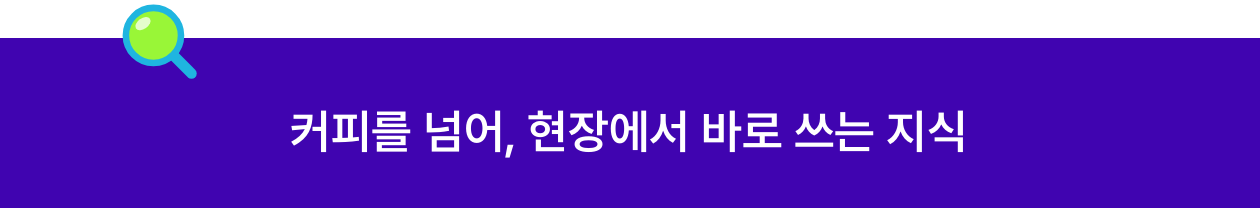
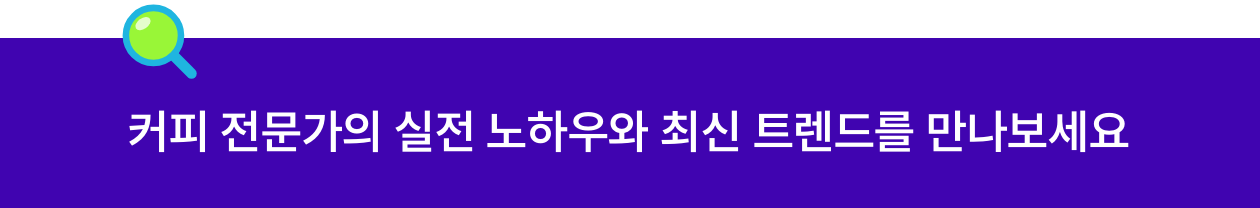
vol06: 더 세션즈 소제목 띠 문구 변경 — 커피 전문가의 실전 노하우와 최신 트렌드를 만나보세요
Claude-Session: https://claude.ai/code/session_0162FmzTmWg611yZswnnmrjC

Changed region(s): [[0.0929, 0.5192, 0.8976, 0.75]]

diff --git a/emails/vol06.html b/emails/vol06.html
@@ -13,7 +13,7 @@
 <tr><td style="padding:15px 15px 1px;font-family:AppleSDGothic, apple sd gothic neo, noto sans korean, noto sans korean regular, noto sans cjk kr, noto sans cjk, nanum gothic, malgun gothic, dotum, arial, helvetica, MS Gothic, sans-serif;color:#000000;word-break:keep-all;overflow-wrap:break-word;"><p style="margin:0 0 14px;text-align:center;font-size:16px;line-height:1.7;"><b>다음 주, 월드커피포럼이 시작됩니다!</b></p><p style="margin:0 0 14px;text-align:center;font-size:16px;line-height:1.7;">커피를 마시는 이유부터 커피 산업의 새로운 가능성까지.<br>다양한 이야기와 인사이트가 펼쳐질<br><span style="color:#4004b0;">제15회 월드커피포럼</span>이 여러분을 기다립니다. ☕</p><p style="margin:0 0 14px;text-align:center;font-size:16px;line-height:1.7;"><b>2026. 11. 11(수)–14(토) | 서울 코엑스</b></p></td></tr>
 <tr><td height="10" style="height:10px;font-size:0;">&nbsp;</td></tr>
 <tr><td style="padding:15px 15px 1px;font-family:AppleSDGothic, apple sd gothic neo, noto sans korean, noto sans korean regular, noto sans cjk kr, noto sans cjk, nanum gothic, malgun gothic, dotum, arial, helvetica, MS Gothic, sans-serif;color:#000000;word-break:keep-all;overflow-wrap:break-word;"><p style="margin:0 0 14px;text-align:center;font-size:16px;line-height:1.7;"><b>커피를 더 깊이 알아가는 시간</b><br><span style="color:#4004b0;">The Sessions &amp; SCA Education</span></p><p style="margin:0 0 14px;text-align:center;font-size:16px;line-height:1.7;">좋은 커피를 구별하는 기준은 무엇일까요?<br>오래 사랑받는 카페와 브랜드에는 어떤 비결이 있을까요?</p><p style="margin:0 0 14px;text-align:center;font-size:16px;line-height:1.7;">커피를 처음 배우는 입문자부터 카페 창업을 준비하는 분, 업계 전문가까지.<br>월커포에서 나에게 꼭 맞는 프로그램을 찾아보세요!</p></td></tr>
-<tr><td style="padding:0;font-family:AppleSDGothic, apple sd gothic neo, noto sans korean, noto sans korean regular, noto sans cjk kr, noto sans cjk, nanum gothic, malgun gothic, dotum, arial, helvetica, MS Gothic, sans-serif;color:#000000;word-break:keep-all;overflow-wrap:break-word;"><img src="https://jongabaek.github.io/wcf.newsletter/assets/vol06/band_sessions.png" width="630" alt="커피를 넘어, 현장에서 바로 쓰는 지식" style="display:block;width:100%;max-width:100%;height:auto;border:0;"></td></tr>
+<tr><td style="padding:0;font-family:AppleSDGothic, apple sd gothic neo, noto sans korean, noto sans korean regular, noto sans cjk kr, noto sans cjk, nanum gothic, malgun gothic, dotum, arial, helvetica, MS Gothic, sans-serif;color:#000000;word-break:keep-all;overflow-wrap:break-word;"><img src="https://jongabaek.github.io/wcf.newsletter/assets/vol06/band_sessions.png" width="630" alt="커피 전문가의 실전 노하우와 최신 트렌드를 만나보세요" style="display:block;width:100%;max-width:100%;height:auto;border:0;"></td></tr>
 <tr><td style="padding:0;font-family:AppleSDGothic, apple sd gothic neo, noto sans korean, noto sans korean regular, noto sans cjk kr, noto sans cjk, nanum gothic, malgun gothic, dotum, arial, helvetica, MS Gothic, sans-serif;color:#000000;word-break:keep-all;overflow-wrap:break-word;"><a href="https://booking.naver.com/booking/5/bizes/1235751" target="_blank"><img src="https://jongabaek.github.io/wcf.newsletter/assets/vol06/info_sessions.png" width="630" alt="더 세션즈 · 11. 11(수)–14(토) · 코엑스 컨퍼런스룸 301호 · 지금 사전등록하기" style="display:block;width:100%;max-width:100%;height:auto;border:0;"></a></td></tr>
 <tr><td style="padding:15px 15px 1px;font-family:AppleSDGothic, apple sd gothic neo, noto sans korean, noto sans korean regular, noto sans cjk kr, noto sans cjk, nanum gothic, malgun gothic, dotum, arial, helvetica, MS Gothic, sans-serif;color:#000000;word-break:keep-all;overflow-wrap:break-word;"><p style="margin:0 0 14px;text-align:center;font-size:16px;line-height:1.7;">커피의 품질과 브루잉 기술, 카페 창업과 브랜드 운영까지.<br>현장 전문가들의 생생한 경험과 노하우를 만나볼 수 있습니다.<br>듣고 싶은 세션만 골라 들어보세요! 💡</p></td></tr>
 <tr><td style="padding:0;font-family:AppleSDGothic, apple sd gothic neo, noto sans korean, noto sans korean regular, noto sans cjk kr, noto sans cjk, nanum gothic, malgun gothic, dotum, arial, helvetica, MS Gothic, sans-serif;color:#000000;word-break:keep-all;overflow-wrap:break-word;"><a href="https://wclforum.org/kr/program/professional.asp" target="_blank"><img src="https://jongabaek.github.io/wcf.newsletter/assets/vol06/board_sessions_11.png" width="630" alt="11. 11(수) 13:00–15:00 커피의 가공과정 중 발효의 변조(송호석 부장 · 콤파스 커피) / 15:30–17:30 추출변수로 만드는 실전 브루잉의 기준(차미경 대표 · 커넥스 브루잉 스팟)" style="display:block;width:100%;max-width:100%;height:auto;border:0;"></a></td></tr>

diff --git a/stibee/vol06.html b/stibee/vol06.html
@@ -6,7 +6,7 @@
 <tr><td style="padding:15px 15px 1px;font-family:AppleSDGothic, apple sd gothic neo, noto sans korean, noto sans korean regular, noto sans cjk kr, noto sans cjk, nanum gothic, malgun gothic, dotum, arial, helvetica, MS Gothic, sans-serif;color:#000000;word-break:keep-all;overflow-wrap:break-word;"><p style="margin:0 0 14px;text-align:center;font-size:16px;line-height:1.7;"><b>다음 주, 월드커피포럼이 시작됩니다!</b></p><p style="margin:0 0 14px;text-align:center;font-size:16px;line-height:1.7;">커피를 마시는 이유부터 커피 산업의 새로운 가능성까지.<br>다양한 이야기와 인사이트가 펼쳐질<br><span style="color:#4004b0;">제15회 월드커피포럼</span>이 여러분을 기다립니다. ☕</p><p style="margin:0 0 14px;text-align:center;font-size:16px;line-height:1.7;"><b>2026. 11. 11(수)–14(토) | 서울 코엑스</b></p></td></tr>
 <tr><td height="10" style="height:10px;font-size:0;">&nbsp;</td></tr>
 <tr><td style="padding:15px 15px 1px;font-family:AppleSDGothic, apple sd gothic neo, noto sans korean, noto sans korean regular, noto sans cjk kr, noto sans cjk, nanum gothic, malgun gothic, dotum, arial, helvetica, MS Gothic, sans-serif;color:#000000;word-break:keep-all;overflow-wrap:break-word;"><p style="margin:0 0 14px;text-align:center;font-size:16px;line-height:1.7;"><b>커피를 더 깊이 알아가는 시간</b><br><span style="color:#4004b0;">The Sessions &amp; SCA Education</span></p><p style="margin:0 0 14px;text-align:center;font-size:16px;line-height:1.7;">좋은 커피를 구별하는 기준은 무엇일까요?<br>오래 사랑받는 카페와 브랜드에는 어떤 비결이 있을까요?</p><p style="margin:0 0 14px;text-align:center;font-size:16px;line-height:1.7;">커피를 처음 배우는 입문자부터 카페 창업을 준비하는 분, 업계 전문가까지.<br>월커포에서 나에게 꼭 맞는 프로그램을 찾아보세요!</p></td></tr>
-<tr><td style="padding:0;font-family:AppleSDGothic, apple sd gothic neo, noto sans korean, noto sans korean regular, noto sans cjk kr, noto sans cjk, nanum gothic, malgun gothic, dotum, arial, helvetica, MS Gothic, sans-serif;color:#000000;word-break:keep-all;overflow-wrap:break-word;"><img src="https://jongabaek.github.io/wcf.newsletter/assets/vol06/band_sessions.png" width="630" alt="커피를 넘어, 현장에서 바로 쓰는 지식" style="display:block;width:100%;max-width:100%;height:auto;border:0;"></td></tr>
+<tr><td style="padding:0;font-family:AppleSDGothic, apple sd gothic neo, noto sans korean, noto sans korean regular, noto sans cjk kr, noto sans cjk, nanum gothic, malgun gothic, dotum, arial, helvetica, MS Gothic, sans-serif;color:#000000;word-break:keep-all;overflow-wrap:break-word;"><img src="https://jongabaek.github.io/wcf.newsletter/assets/vol06/band_sessions.png" width="630" alt="커피 전문가의 실전 노하우와 최신 트렌드를 만나보세요" style="display:block;width:100%;max-width:100%;height:auto;border:0;"></td></tr>
 <tr><td style="padding:0;font-family:AppleSDGothic, apple sd gothic neo, noto sans korean, noto sans korean regular, noto sans cjk kr, noto sans cjk, nanum gothic, malgun gothic, dotum, arial, helvetica, MS Gothic, sans-serif;color:#000000;word-break:keep-all;overflow-wrap:break-word;"><a href="https://booking.naver.com/booking/5/bizes/1235751" target="_blank"><img src="https://jongabaek.github.io/wcf.newsletter/assets/vol06/info_sessions.png" width="630" alt="더 세션즈 · 11. 11(수)–14(토) · 코엑스 컨퍼런스룸 301호 · 지금 사전등록하기" style="display:block;width:100%;max-width:100%;height:auto;border:0;"></a></td></tr>
 <tr><td style="padding:15px 15px 1px;font-family:AppleSDGothic, apple sd gothic neo, noto sans korean, noto sans korean regular, noto sans cjk kr, noto sans cjk, nanum gothic, malgun gothic, dotum, arial, helvetica, MS Gothic, sans-serif;color:#000000;word-break:keep-all;overflow-wrap:break-word;"><p style="margin:0 0 14px;text-align:center;font-size:16px;line-height:1.7;">커피의 품질과 브루잉 기술, 카페 창업과 브랜드 운영까지.<br>현장 전문가들의 생생한 경험과 노하우를 만나볼 수 있습니다.<br>듣고 싶은 세션만 골라 들어보세요! 💡</p></td></tr>
 <tr><td style="padding:0;font-family:AppleSDGothic, apple sd gothic neo, noto sans korean, noto sans korean regular, noto sans cjk kr, noto sans cjk, nanum gothic, malgun gothic, dotum, arial, helvetica, MS Gothic, sans-serif;color:#000000;word-break:keep-all;overflow-wrap:break-word;"><a href="https://wclforum.org/kr/program/professional.asp" target="_blank"><img src="https://jongabaek.github.io/wcf.newsletter/assets/vol06/board_sessions_11.png" width="630" alt="11. 11(수) 13:00–15:00 커피의 가공과정 중 발효의 변조(송호석 부장 · 콤파스 커피) / 15:30–17:30 추출변수로 만드는 실전 브루잉의 기준(차미경 대표 · 커넥스 브루잉 스팟)" style="display:block;width:100%;max-width:100%;height:auto;border:0;"></a></td></tr>
